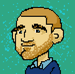
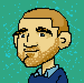
Revised style of survey

diff --git a/app/assets/stylesheets/surveys.css.scss b/app/assets/stylesheets/surveys.css.scss
@@ -3,81 +3,9 @@
 // You can use Sass (SCSS) here: http://sass-lang.com/
 
 /*-----------------MAIN SURVEY SECTION-------------------*/
-#survey-section {
-	margin:85px 0 0 194px;
-	padding-bottom: 30px;
-	width: 838px;
-	min-height: 640px;
-	height: 100%;
-	background: url(../images/main-bkgd.png) repeat;
-	
-	h1 {
-		margin:10px 0 0 30px;
-		font-size: 35px;
-		color: #fff; 
-	}
-	
-	.auto-update-btn {
-		position: relative;
-		float: right;
-		top: 50px;
-		right: 400px;
-	}
-	
-	hr {
-		margin:10px 0 0 30px;
-		width: 770px;
-		height: 10px;
-		background: url(../images/bkgd-btn.gif) repeat;
-		border: none;
-	}
-	
-	#short_path_survey {
-		.symptom_name {
-			margin:30px 0 0 20px;
-			width: 350px;
-			font-size: 18px;
-			color: #fff;
-			
-			a, a:visited {
-				color: #444;
-			}
-		}
-		
-		.symptom_description { 
-			margin:0 0 0 20px;
-			font-family: 'Museo500';
-			font-size: 12px;
-			color: #2F4459;
-		}
-		
-		.get_more_button {
-			position: relative;
-			top: px;
-			left: 40px;			
-			float: right;
-			padding:2px 4px 2px 4px;
-			font-size: 11px;
-			background: #C1C1C1;	
-		}
-		
-		.slider { 
-			margin:20px 10px 10px 30px;
-			display: block;
-			height: 10px;
-			width: 380px;
-		}
-		
-		.slider_container {
-			width:500px;
-		}		
-	}
-}
-
-
 /*-----------------LOWER SURVEY SECTION-------------------*/
 #lower-survey-section {
-	margin:25px 0 0 224px;
+	margin:25px 0 0 0;
 		
 	h4 {
 		margin-bottom: 10px;

diff --git a/config/application.rb b/config/application.rb
@@ -55,7 +55,7 @@ module Kurbi2
     # This will create an empty whitelist of attributes available for mass-assignment for all models
     # in your app. As such, your models will need to explicitly whitelist or blacklist accessible
     # parameters by using an attr_accessible or attr_protected declaration.
-    # config.active_record.whitelist_attributes = true
+     config.active_record.whitelist_attributes = true
 	
     # Enable the asset pipeline
     config.assets.enabled = true

diff --git a/app/models/patient.rb b/app/models/patient.rb
@@ -33,7 +33,7 @@ class Patient < ActiveRecord::Base
 	has_secure_password
 	validates :password, :confirmation => true
 	
-	has_attached_file :photo, :styles => { :small => "75x75>" },
+	has_attached_file :photo, :styles => { :small => "95x83>" },
 						      :url  => "/assets/patients/:id/:style/:basename.:extension",
 	                          :path => ":rails_root/public/assets/patients/:id/:style/:basename.:extension"
 	

diff --git a/app/controllers/surveys_controller.rb b/app/controllers/surveys_controller.rb
@@ -2,7 +2,6 @@ class SurveysController < ApplicationController
 		
 	def show
 		@patient = Patient.find(params[:id])
-		@person = @patient.person
 		@title = (@patient.first_name + " " + @patient.last_name)
 		render 'show'
 	end

diff --git a/app/helpers/patients_helper.rb b/app/helpers/patients_helper.rb
@@ -1,6 +1,6 @@
 module PatientsHelper
 	def profile_image
-		image_tag("default-profile.png")
+		image_tag "kurbi-pic.png", :class => " round mid-shadow"
 	end
 
 end
